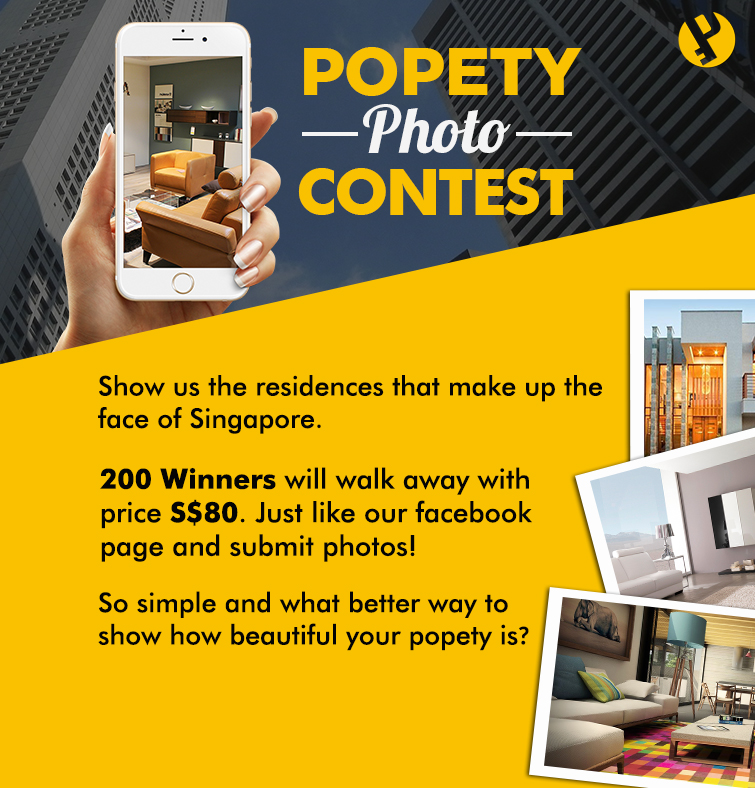
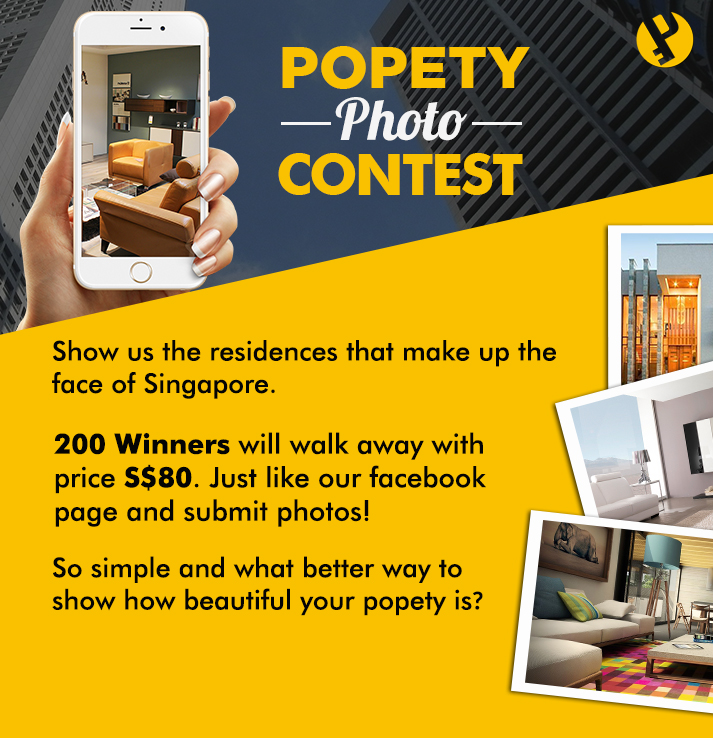
Home image

diff --git a/public/templates/home.html b/public/templates/home.html
@@ -1,4 +1,4 @@
-<section class="new_homepage" data-ng-controller="homeController" style="position:relative;background:#FAC100;padding-bottom: 80px;">
+<section class="new_homepage" data-ng-controller="homeController" style="position:relative;background:#FAC100;">
 
 				<img src="images/home_bg.jpg" style="max-width:858px;width: 100%;">
 

diff --git a/public/css/style.css b/public/css/style.css
@@ -2477,8 +2477,8 @@ footer{
 }
 #like-wrapper{
     position: absolute;
-    bottom: 122px;
-    left: 13%;
+    bottom: 40px;
+    left: 7%;
     overflow: hidden;
     width: 200px;
     height: 78px;
